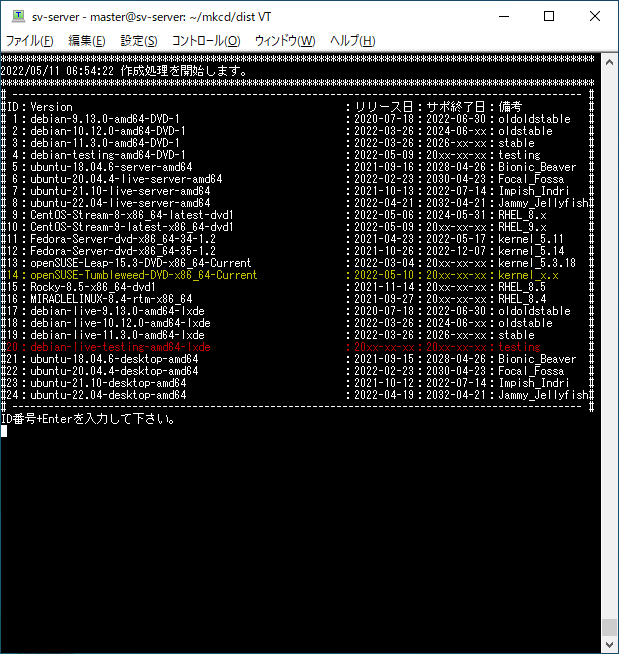
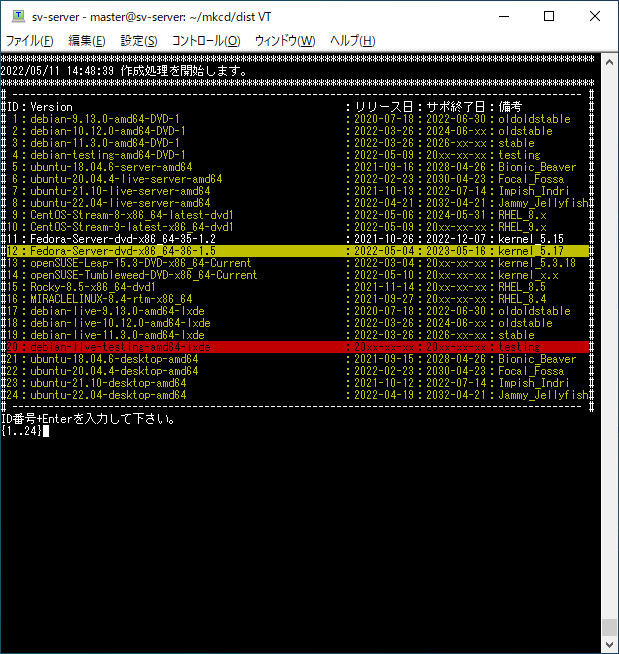
uodate

diff --git a/installer/README.md b/installer/README.md
@@ -42,9 +42,10 @@
   
 【メニュー画面】  
 **文字色について**  
-　・白：作成不要（ローカルが最新）  
-　・黄：作成必要（ローカルが古い）  
-　・赤：通信障害（ダウンロード不可）  
+　・反転：作成必要（ローカルに無い）  
+　・白色：作成不要（ローカルが最新）  
+　・黄色：作成必要（ローカルが古い）  
+　・赤色：通信障害（ダウンロード不可）  
 **ログについて**  
 　・exec &> >(tee -a "working.log") でのログ取得が可能
 | 作業内容              | スクリーンショット                                                              |
